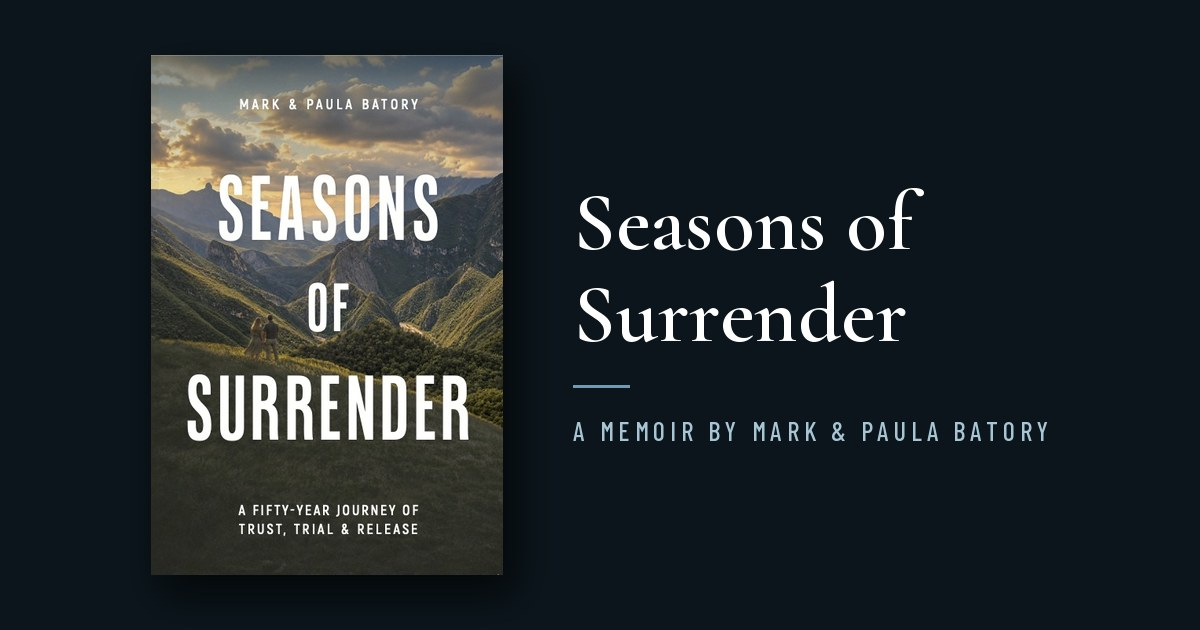
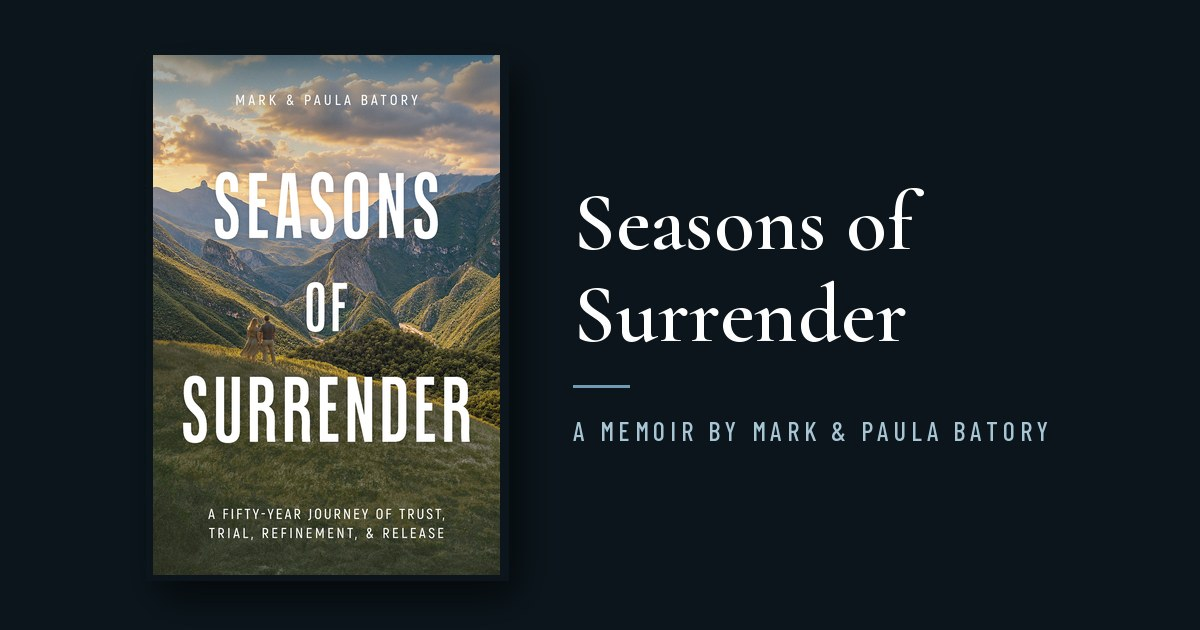
3D book: final cover (4-part subtitle, new back), true 6x9 size and 0.89 in spine for 356 cream pages; OG image updated

Changed region(s): [[0.1233, 0.0603, 0.4317, 0.9048]]

diff --git a/index.html b/index.html
@@ -99,7 +99,7 @@
 
   /* ── 3D book ── */
   .book-col{flex:0 1 420px;min-width:300px;display:flex;flex-direction:column;align-items:center;gap:20px}
-  .stage{--w:300px;--h:443px;--d:24px;position:relative;width:100%;max-width:420px;height:560px;perspective:1500px;display:flex;align-items:center;justify-content:center;cursor:grab;touch-action:pan-y;user-select:none;-webkit-user-select:none;outline-offset:6px}
+  .stage{--w:300px;--h:450px;--d:44.5px;position:relative;width:100%;max-width:420px;height:560px;perspective:1500px;display:flex;align-items:center;justify-content:center;cursor:grab;touch-action:pan-y;user-select:none;-webkit-user-select:none;outline-offset:6px}
   .stage.dragging{cursor:grabbing}
   .shadow{position:absolute;left:50%;bottom:34px;width:300px;height:34px;margin-left:-150px;background:radial-gradient(ellipse at center,rgba(0,0,0,.55),rgba(0,0,0,0) 70%);filter:blur(6px)}
   .book{position:relative;width:var(--w);height:var(--h);transform-style:preserve-3d;transform:rotateX(-8deg) rotateY(-28deg);will-change:transform}
@@ -386,7 +386,7 @@
         <div class="stage" id="stage" tabindex="0" role="group" aria-label="3D view of the Seasons of Surrender paperback. Drag to turn it, or use the left and right arrow keys.">
           <div class="shadow" aria-hidden="true"></div>
           <div class="book" id="book3d">
-            <div class="face f-front"><img src="/assets/cover-front.jpg" width="448" height="661" alt="Front cover of Seasons of Surrender by Mark and Paula Batory, showing the Mexican mountains where they lived and served" loading="lazy" draggable="false"></div>
+            <div class="face f-front"><img src="/assets/cover-front.jpg" width="600" height="900" alt="Front cover of Seasons of Surrender by Mark and Paula Batory, showing the Mexican mountains where they lived and served" loading="lazy" draggable="false"></div>
             <div class="face f-back"></div>
             <div class="face f-spine"></div>
             <div class="face f-pages"></div>

diff --git a/resources/index.html b/resources/index.html
@@ -216,7 +216,7 @@
         </nav>
       </div>
       <div class="cover-col">
-        <span class="cover"><img src="/assets/cover-front.jpg" width="448" height="661" alt="Front cover of Seasons of Surrender by Mark and Paula Batory"></span>
+        <span class="cover"><img src="/assets/cover-front.jpg" width="600" height="900" alt="Front cover of Seasons of Surrender by Mark and Paula Batory"></span>
       </div>
     </div>
   </div>

diff --git a/review/index.html b/review/index.html
@@ -210,7 +210,7 @@
         </div>
       </div>
       <div class="cover-col">
-        <span class="cover"><img src="/assets/cover-front.jpg" width="448" height="661" alt="Front cover of Seasons of Surrender by Mark and Paula Batory"></span>
+        <span class="cover"><img src="/assets/cover-front.jpg" width="600" height="900" alt="Front cover of Seasons of Surrender by Mark and Paula Batory"></span>
       </div>
     </div>
   </div>
